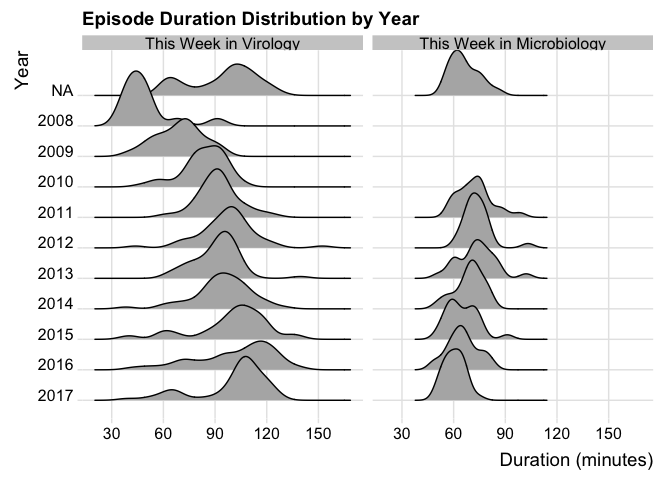
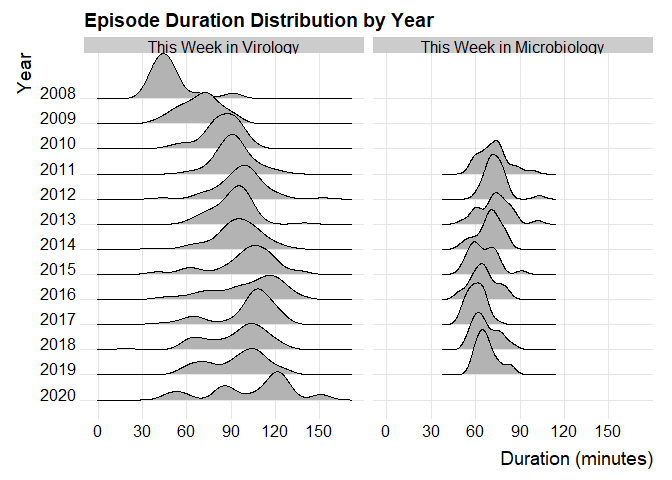
Updated for 2019-20

diff --git a/podcasts/twiv/code/R/twiv.md b/podcasts/twiv/code/R/twiv.md
@@ -1,107 +1,114 @@
 Is TWiV getting longer?
 ================
 Neil Saunders
-compiled 2018-11-19 09:29:03
+compiled 2020-03-18 15:24:06
 
--   [Introduction](#introduction)
--   [Get the XML](#get-the-xml)
--   [Make the data frame](#make-the-data-frame)
--   [Is TWiV getting longer?](#is-twiv-getting-longer)
-    -   [Scatter plot](#scatter-plot)
-    -   [Summarise by year](#summarise-by-year)
-    -   [Distribution of duration](#distribution-of-duration)
--   [Conclusions](#conclusions)
-    -   [This Week in Microbiology (TWiM)](#this-week-in-microbiology-twim)
-    -   [This Week in Parasitism (TWiP)](#this-week-in-parasitism-twip)
--   [Other ways to analyse the feed data](#other-ways-to-analyse-the-feed-data)
-    -   [Keywords](#keywords)
+  - [Introduction](#introduction)
+  - [Get the XML](#get-the-xml)
+  - [Make the data frame](#make-the-data-frame)
+  - [Is TWiV getting longer?](#is-twiv-getting-longer)
+      - [Scatter plot](#scatter-plot)
+      - [Summarise by year](#summarise-by-year)
+      - [Distribution of duration](#distribution-of-duration)
+  - [Conclusions](#conclusions)
+      - [This Week in Microbiology
+        (TWiM)](#this-week-in-microbiology-twim)
+      - [This Week in Parasitism (TWiP)](#this-week-in-parasitism-twip)
+  - [Other ways to analyse the feed
+    data](#other-ways-to-analyse-the-feed-data)
+      - [Keywords](#keywords)
 
-Introduction
-============
+# Introduction
 
-Is science podcast [This Week In Virology](http://www.microbe.tv/twiv/) getting longer? And some other TWiV trivia.
+Is science podcast [This Week In Virology](http://www.microbe.tv/twiv/)
+getting longer? And some other TWiV trivia.
 
-Get the XML
-===========
+# Get the XML
 
-Data for every podcast episode is contained in [the RSS feed](http://twiv.microbeworld.libsynpro.com/twiv). RSS is XML, so reading it into R is very easy. Details for each episode are found in the `item` nodes.
+Data for every podcast episode is contained in [the RSS
+feed](http://twiv.microbeworld.libsynpro.com/twiv). RSS is XML, so
+reading it into R is very easy. Details for each episode are found in
+the `item` nodes.
 
-Make the data frame
-===================
+# Make the data frame
 
-There is sure to be a clever and elegant way to map straight into a data frame using *e.g.* `purrr`. This is not that way.
+There is sure to be a clever and elegant way to map straight into a data
+frame using *e.g.* `purrr`. This is not that way.
 
--   `pubDate` is converted to date-time
--   `enclosure length` (bytes) is converted to numeric values
--   `duration` is pre-pended with "00" where hours are absent, then converted to seconds as numeric values
+  - `pubDate` is converted to date-time
+  - `enclosure length` (bytes) is converted to numeric values
+  - `duration` is pre-pended with “00” where hours are absent, then
+    converted to seconds as numeric values
 
 The end result is a data frame with rows that look like this:
 
-| pubDate             | title                                             |  encLength| duration |  duration\_seconds|
-|:--------------------|:--------------------------------------------------|----------:|:---------|------------------:|
-| 2018-11-18 15:58:09 | TWiV 520: This old mouse                          |   69982663| 01:55:49 |               6949|
-| 2018-11-11 14:51:06 | TWiV 519: Fishing for viruses in senile           |   58062467| 01:35:57 |               5757|
-| 2018-11-04 11:00:00 | TWiV 518: Hershey's viruses                       |   53104433| 01:26:23 |               5183|
-| 2018-10-28 14:10:04 | TWiV 517: Just in time for Halloween              |   47907627| 01:19:01 |               4741|
-| 2018-10-21 15:37:43 | TWiV 516: HUSH little virus, don't you transcribe |   72957488| 02:00:46 |               7246|
+``` {r-df-rows}
+twiv_df %>%
+  top_n(5, wt = pubDate) %>%
+  kable()
+```
 
-Is TWiV getting longer?
-=======================
+# Is TWiV getting longer?
 
-Some time in 2016, I started to form the impression that most episodes of TWiV were around the two hour mark or more. Unfortunately, this prompted my decision to stop listening since I listen to several other podcasts and could not justify 2 hours each week for just one of them.
+Some time in 2016, I started to form the impression that most episodes
+of TWiV were around the two hour mark or more. Unfortunately, this
+prompted my decision to stop listening since I listen to several other
+podcasts and could not justify 2 hours each week for just one of them.
 
-Scatter plot
-------------
+## Scatter plot
 
-Let's start with a scatter plot.
+Let’s start with a scatter plot.
 
-There's a clear increase in duration for the first 4 years of the podcast, which then levels off. There's also quite a lot of noise due to "outliers": special episodes that tend to be much shorter than average.
+There’s a clear increase in duration for the first 4 years of the
+podcast, which then levels off. There’s also quite a lot of noise due to
+“outliers”: special episodes that tend to be much shorter than average.
 
-![](../../figures/twiv-scatter-1.png)
+![](../../figures/twiv-scatter-1.png)<!-- -->
 
-Summarise by year
------------------
+## Summarise by year
 
 How about if we plot the mean episode duration by year?
 
-Mean duration passed 90 minutes in 2011 and approached 100 minutes in 2015. There is a very slight decrease in the mean duration in the episodes aired so far for 2017.
+Mean duration passed 90 minutes in 2011 and approached 100 minutes in
+2015. There is a very slight decrease in the mean duration in the
+episodes aired so far for 2017.
 
-![](../../figures/twiv-bar-1.png)
+![](../../figures/twiv-bar-1.png)<!-- -->
 
-Distribution of duration
-------------------------
+## Distribution of duration
 
-The "ridge line" plot shows duration distributions by year.
+The “ridge line” plot shows duration distributions by year.
 
-This clearly shows the duration creeping towards two hours in 2016, but dropping back a little in 2017.
+This clearly shows the duration creeping towards two hours in 2016, but
+dropping back a little in 2017.
 
-![](../../figures/twiv-joy-1.png)
+![](../../figures/twiv-joy-1.png)<!-- -->
 
-Conclusions
-===========
+# Conclusions
 
-TWiV duration moved to around 90 minutes on average in 2010 - 2011, then moved again closer to 100 - 120 minutes in 2015 - 2016. However, the duration seems to have dropped back a little in 2017.
+TWiV duration moved to around 90 minutes on average in 2010 - 2011, then
+moved again closer to 100 - 120 minutes in 2015 - 2016. However, the
+duration seems to have dropped back a little in 2017.
 
 How about some of the other Microbe TV podcasts?
 
-This Week in Microbiology (TWiM)
---------------------------------
+## This Week in Microbiology (TWiM)
 
-Let's try comparing these in the same plot. ![](../../figures/twim-joy-1.png)
+Let’s try comparing these in the same plot.
+![](../../figures/twim-joy-1.png)<!-- -->
 
-Side by side might be better? ![](../../figures/twim-joy2-1.png)
+Side by side might be better? ![](../../figures/twim-joy2-1.png)<!-- -->
 
-This Week in Parasitism (TWiP)
-------------------------------
+## This Week in Parasitism (TWiP)
 
-We'll try these side by side. ![](../../figures/twip-joy-1.png)
+We’ll try these side by side. ![](../../figures/twip-joy-1.png)<!-- -->
 
-Other ways to analyse the feed data
-===================================
+# Other ways to analyse the feed data
 
-Keywords
---------
+## Keywords
 
-A word cloud of the podcast keywords. We remove stop words plus the words "virus", "viruses", "virology", "viral", "twiv".
+A word cloud of the podcast keywords. We remove stop words plus the
+words “virus”, “viruses”, “virology”, “viral”, “twiv”.
 
-Keywords occurring 10 or more times: ![](../../figures/twiv-wordcloud-1.png)
+Keywords occurring 10 or more times:
+![](../../figures/twiv-wordcloud-1.png)<!-- -->
